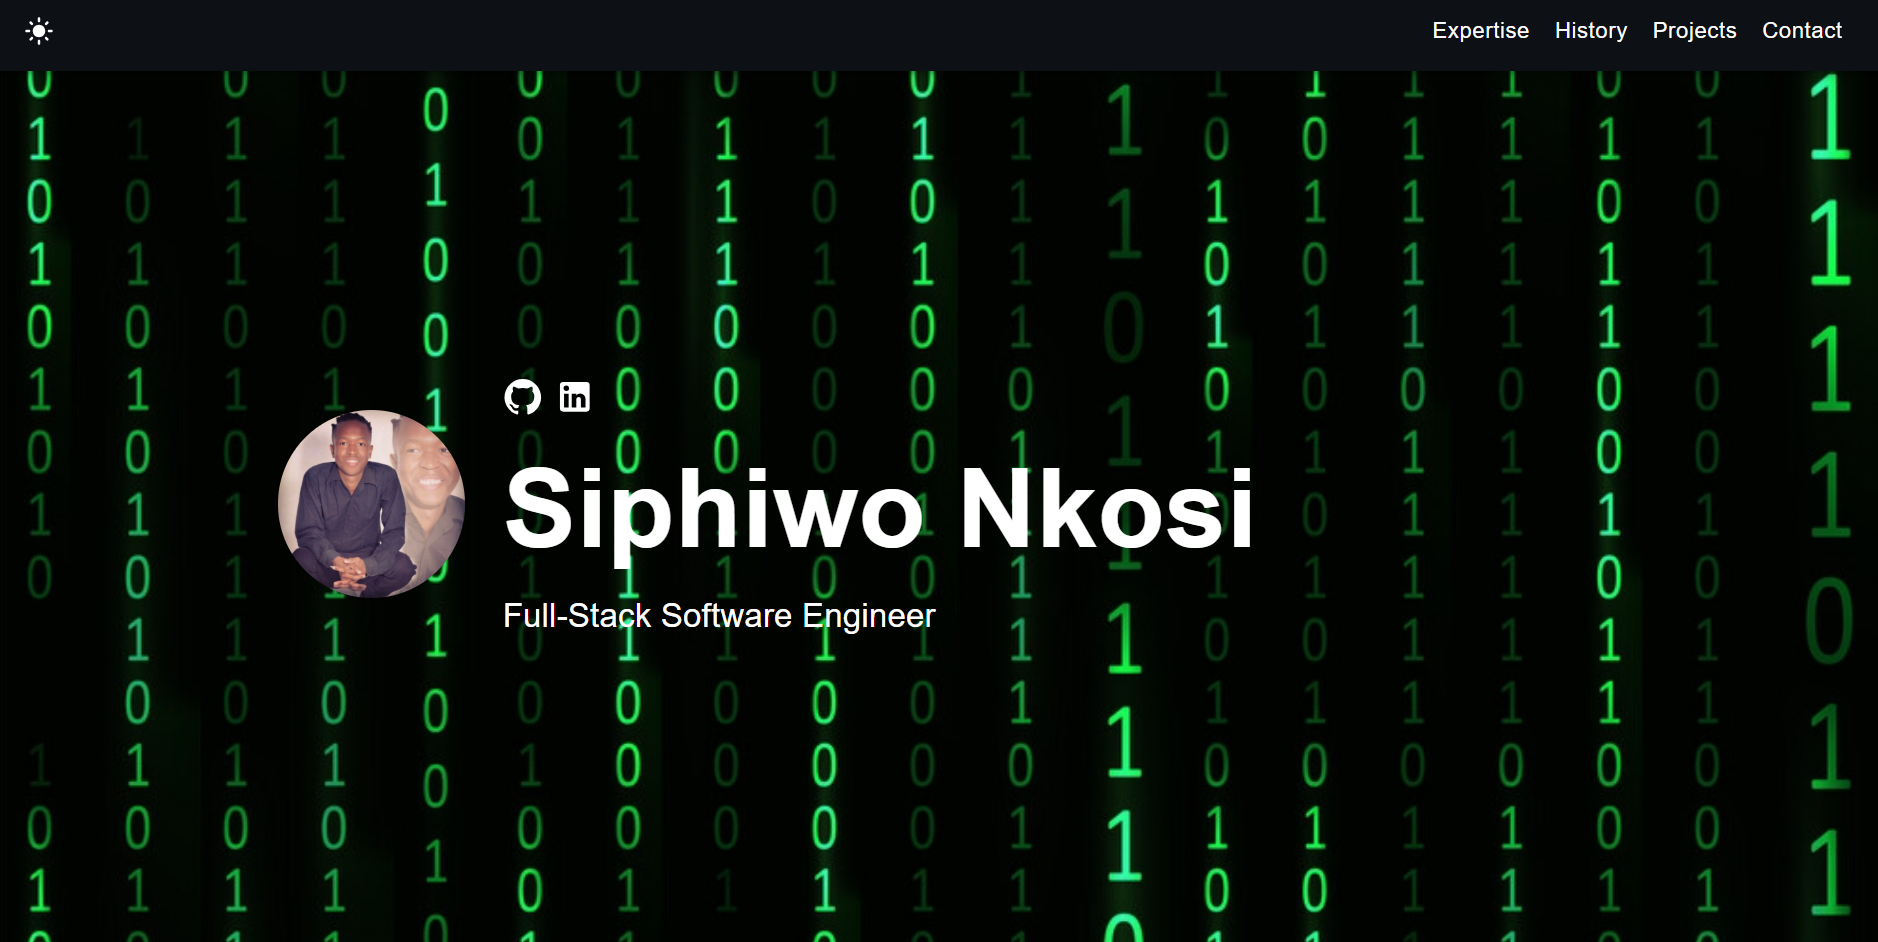
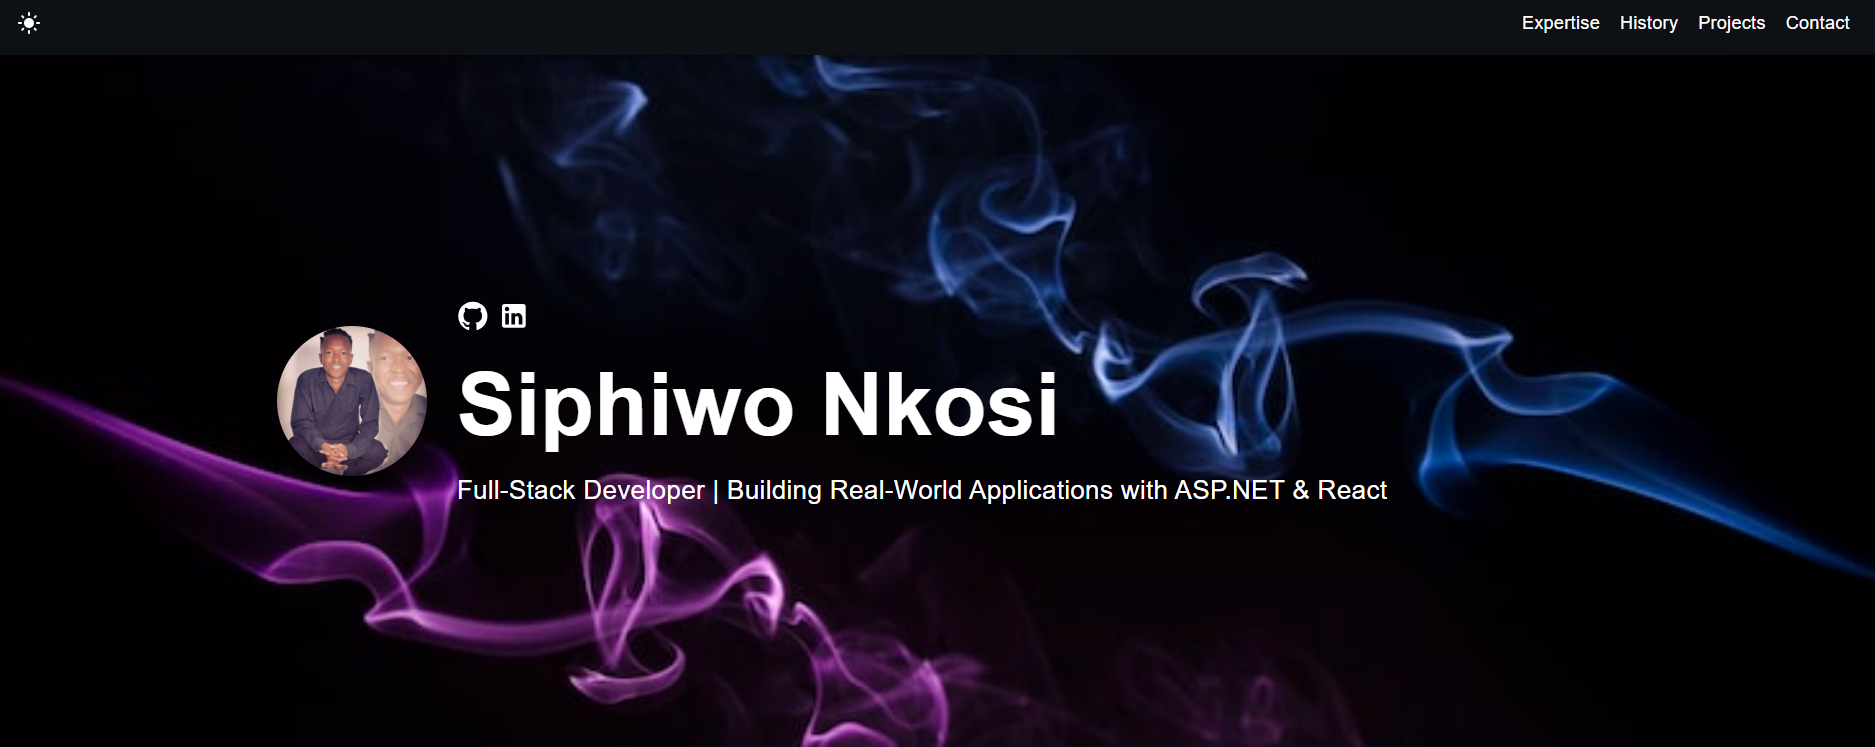
bg change

diff --git a/src/components/Expertise.tsx b/src/components/Expertise.tsx
@@ -60,7 +60,7 @@ function Expertise() {
                 <div className="skill">
                     <FontAwesomeIcon icon={faCode} size="3x"/>
                     <h3>Full Stack Development</h3>
-                        <p>Building scalable and maintainable web applications with a focus on performance and clean architecture.</p>
+                        <p>Building full-stack apps with a focus on fast load times, clean state management, and maintainable API design.</p>
                     <div className="flex-chips">
                         <span className="chip-title">Tech Stack:</span>
                         {labelsFirst.map((label, index) => (

diff --git a/src/assets/styles/Main.scss b/src/assets/styles/Main.scss
@@ -10,7 +10,7 @@
     width: 100%;
     padding: 0px 15%;
     min-height: 700px;
-    background-image: url("../images/dark-bg.jpeg");
+    background-image: url("../images/dark-bg.jpg");
     background-repeat: no-repeat;
     background-size: cover;
     background-attachment: fixed;

diff --git a/src/index.scss b/src/index.scss
@@ -113,7 +113,7 @@ p, a, h1, h2, h3, h4, h5, label, button {
     }
 
     .about-section {
-        background-image: url("./assets/images/light-bg.jpeg");
+        background-image: url("./assets/images/light-bg.jpg");
     }
 
     .skills-container svg {

diff --git a/src/components/Timeline.tsx b/src/components/Timeline.tsx
@@ -74,3 +74,4 @@ function Timeline() {
 }
 
 export default Timeline;
+
